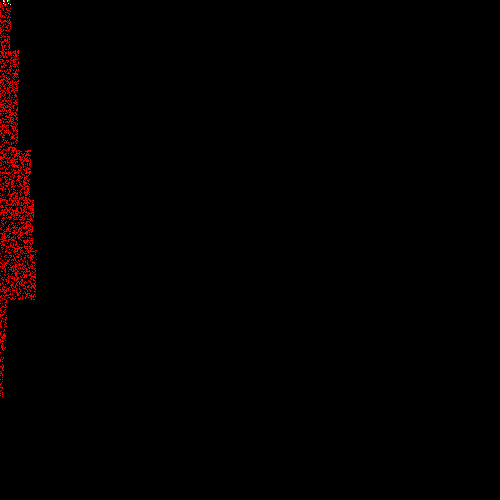
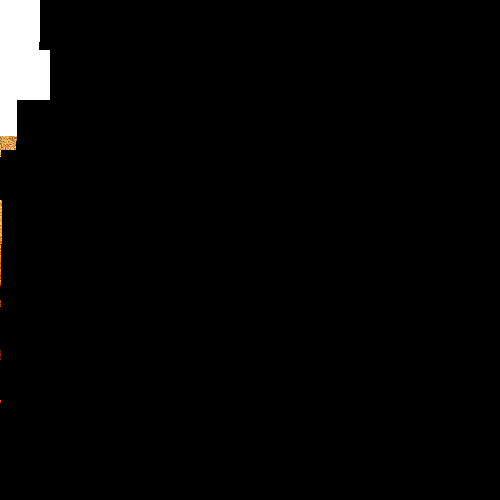
Problem seems to be too gew ray actually get to the light
need to make a better check with lights

Changed region(s): [[0.0, 0.0, 0.12, 0.81]]

diff --git a/src/Raytracer.cpp b/src/Raytracer.cpp
@@ -80,7 +80,7 @@ ContactInfo RayTracer::RayCast(const Ray& ray, const Scene& scene, int bounce){
 
 		//return result;
         bounced.mP0 = info.mContact + (info.mNormal * GetEpsilon());
-
+        
         //std::cout << "[RAYCAST]In bounce number: " << bounce << " result color is:" << result.mColor.GetDebugString() << std::endl;
 		ContactInfo recursion = RayCast(bounced, scene, bounce + 1);
 		//std::cout << "[RAYCAST]After Recursion returned color is:" << recursion.mColor.GetDebugString() << std::endl;

diff --git a/src/Material.cpp b/src/Material.cpp
@@ -48,6 +48,9 @@ Ray Dielectric::BounceRay(const Ray& ray, const glm::vec3& normal, const glm::ve
 {
 	glm::vec3 p = cp + (normal * Raytracer.GetEpsilon());
 	Ray bounced(p);
+	bounced.mAttenuation= ray.mAttenuation;
+	bounced.mIndexOfRefraction = ray.mIndexOfRefraction;
+
 
 	glm::vec3 incidence = ray.mV;
     float randFloat = Utils::GetRandomFloat(0.0f, 1.0f);
